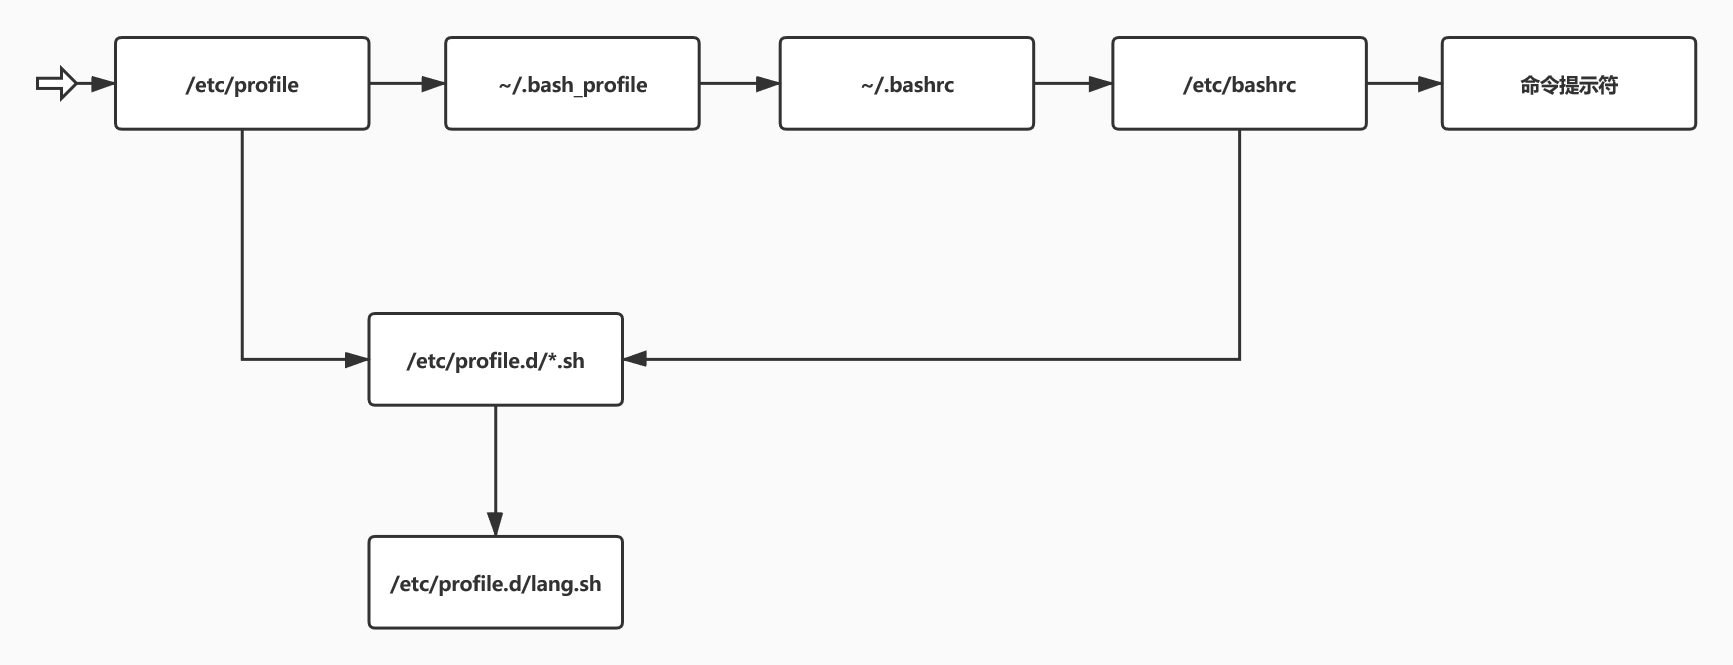
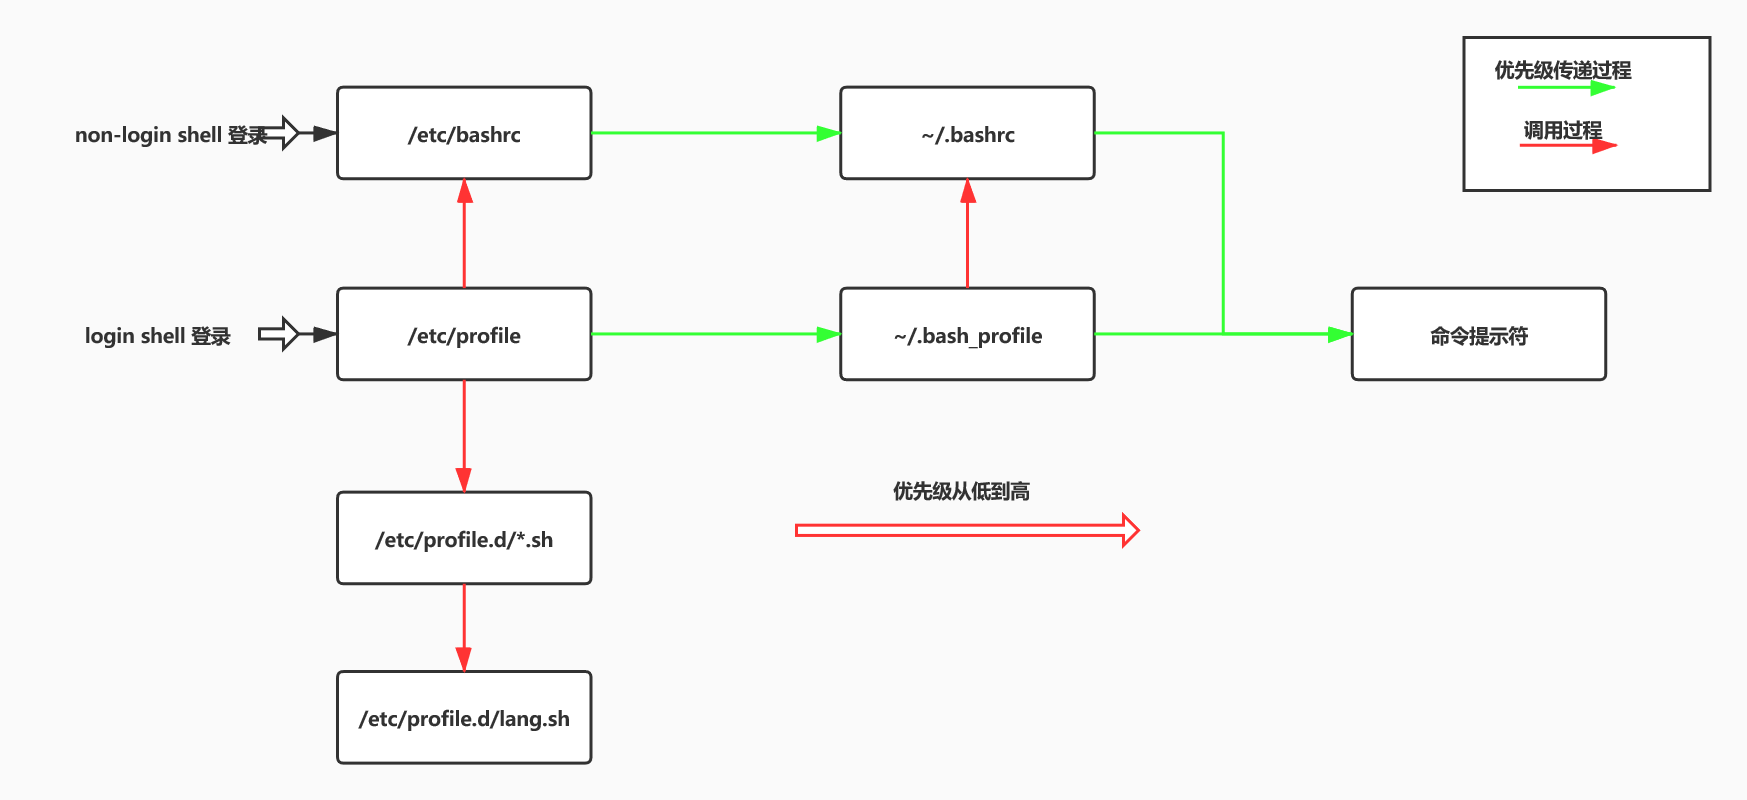
dev_branch 20/2/14(second time) add content linux and modified one picture

diff --git a/Linux_notes.md b/Linux_notes.md
@@ -5988,7 +5988,7 @@ ss@localcomputer:~$ email="ShenDeZ@163.com"
 
 #### 环境变量得配置文件简介
 
-##### `source` 命令及
+##### `source` 命令
 
 1. 命令 `source 配置文件` 或 `. 配置文件`
    - 修改配置文件系统必须重新登录，此命令解决系统重启
@@ -5997,16 +5997,65 @@ ss@localcomputer:~$ email="ShenDeZ@163.com"
    - 环境变量配置文件中主要是定义对系统得操作环境生效得系统默认环境变量，比如 PATH（定义系统查找命令得路径）、HISTSIZE（历史命令的显示命令条数）、PS1（提示符）、HOSTNAME（主机名） 等等默认环境变量。
    - __centOS__ （Linux也一样）的环境变量配置文件体系是一个层级体系。这与其他用户应用系统配置文件类似，有全局、有局部（用户），另外不同层级有时类似继承关系。
 
+##### 5 类环境配置文件及启动过程
+
+1. 5 类配置文件__（在 `/etc/` 下的配置文件对所有用户都生效，在某个用户家目录下的配置文件对这个用户有效）__
+
+   - __`/etc/profile`__
+     1. 第一次系统启动后第一个用户登录时执行 `/etc/profile` 文件，该文件是 Shell 默认主启动文件。
+     2. bash 执行该文件时，会读取 `/etc/profile.d/` 下所有 `*.sh` 文件，通过 `.` 或者 `source` 来加载变量
+     3. bash 执行该文件时，会调用 `/etc/bashrc`（Ubuntu 下为 `/etc/bash.bashrc`） 文件来执行
+     4. `/etc/profile` 、`/etc/bash.bashrc` 和 `/etc/profile.d/*.sh` 都是全局环境变量，对所有用户有效
+     5. __`/etc/environment` 保存环境变量 PATH 的值。据说 `/etc/profile` 保存所有用户的环境变量，`/etc/environment` 保存系统的环境变量__
+
+   - `/etc/profile.d/*.sh`（为一组配置文件）
+
+     1. 全局环境变量，对所有用户有效。
+     2. 通过 `/etc/profile` 调用
+
+   - __`/etc/bashrc`（Ubuntu `/etc/` 下的文件是 `bash.bashrc`）__
+
+     - 全局环境变量，对所有用户有效
+- 通过 `/etc/profile` 调用
+     
+   - __`~/.bash_profile` (Ubuntu 用户家目录下的文件是 `.profile`)__
+  1. 家目录下的启动文件都是用户专属启动文件，定义了该用户的环境变量
+     2. bash 执行该文件，会调用 `/etc/.bashrc`
+     3. bash 会按照下列顺序，执行第一个找到的文件，余下被忽略
+        - `~/.bash_profile`
+        - `~/.bash_login`
+        - `~/.profile`
+        - 仅对此用户有效
+   
+   - __`~.bashrc`__
+
+     - 仅对此用户有效
+- 通过 `~/.profile` 调用
+   
+2. 5 类配置文件的优先级（在 Ubuntu 系统下；每一个 Linux 的发行版本都不样）
+
+   __说明：数字越大，优先级越低__
+
+   - `/etc/profile` 的优先级为 5
+   - `/etc/profile.d` 为 `/etc/profile` 调用，并继承上述配置文件，优先级为 4
+   - /etc/bash.bashrc` 为 `/etc/profile` 调用，并继承上述配置文件，优先级为 3
+   - `~/.profile` 的优先级为 2
+   - `~/.bashrc` 为 `~/.profile` 调用，并继承上述配置文件，优先级为 1
+   - 修改环境配置在以上 5 个文件都可以，只是优先级高的会覆盖掉优先级低的。
+
 ##### Shell bash 不同类别介绍
 
 1. Shell bash 不同类别介绍
+
    - 分为 login shell（登录式 shell）、non-login shell（非登录式 shell）；interactive shell（交互 shell）和 non-interactive shell（非交互式 shell）。__这两种分类相互交叉。__
      1. 交互式，登录 shell
      2. 非交互式，登录 shell
      3. 交互式，非登录 shell
      4. 非交互式，非登录 shell
    - __注意：只要记住什么是 login shell、non-login shell 和 non-interactive 非登录式 shell__
+
 2. 介绍 3 种
+
    - 什么是 login shell
      1. 使用 bash 时需要完整的登录流程。就是说通过输入账号和密码登录系统，此时取得的 shell 称为 login shell。例如 `ssh` 登录或者 `su - root` 切换 root 用户都会启动 login shell
      2. 在 shell bash下使用 `--login` 选项调用 bash（前一个 shell bash 的子进程 `bash --login`），可以获得一个交互式 login shell。
@@ -6019,82 +6068,97 @@ ss@localcomputer:~$ email="ShenDeZ@163.com"
    - 什么是非交互，非登录式 shell
      - 执行脚本
 
-2. 不同 shell bash 的启动过程
+3. 不同 shell bash 的启动过程
 
-- login shell（登录式 Shell）
-  1. 使用 bash 时需要完整的登录流程。就是说通过输入账号和密码登录系统，此时取得的shell称为login shell。例如 `ssh` 登录或者 `su - root` 切换 root 用户都会启动 `login shell`
-- non-login shell（非登录式 Shell）
-  1. 非登录 Shell 不会执行任何 `profile` 文件
-  2. 交互式 Shell，等待用户输入命令
-  3. 非交互式 Shell，只运行家脚本，且不执行任何 `bashrc` 文件
+   - __不同的 shell bash 启动时会读取不同的配置文件，从而导致环境变量不一样。__
+     1. 实际上，在 Ubuntu 系统中 `/etc/profile` 配置文件会调用 `/etc/profile.d/*.sh` 和 `/etc/bash.bashrc` 配置文件；`~/.profile` 配置文件会调用 `.bashrc` 配置文件。
+     2. 在 `/etc` 下的环境配置文件，如同全局变量；在 `~/.` 下的配置文件，如同局部变量，__局部变量优先级大于全局变量__。
 
-##### 5 类配置文件及启动过程
+   - login shell 
+     1. shell bash 启动时首先读取 `/etc/profile` 全局配置，然后查找（`~/.bash_profile` 、`~/.bash_login`、`~/.profile`）3 个文件任何一个配置文件（找到一个即可），login shell 退出时读取 `~/.bash_logout`。
 
-1. 5 类配置文件__（在 `/etc/` 下的配置文件对所有用户都生效，在某个用户家目录下的配置文件对这个用户有效）__
+   - non-login shell
+     1. non-login shell 启动时读取 `~/.bashrc` 配置文件
+     2. 不会读取任何 `profile` 文件
+   - 非交互，non-login shell
+     1. 非交互式，non-login shell 不会读取 上述 5 类配置文件，而是查找环境变量 BASH_ENV。
 
-   - __`/etc/profile`__
-     1. 系统启动后第一个用户登录时执行 `/etc/profile` 文件，该文件是 Shell 默认主启动文件。
-     2. bash 执行该文件时，会读取 `/etc/profile.d/` 下所有 `*.sh` 文件，通过 `.` 或者 `source` 来加载变量
-     3. bash 执行该文件是，会调用 `/etc/bashrc`（Ubuntu 下为 `/etc/bash.bashrc`） 文件来执行
-     4. `/etc/profile` 、`/etc/bash.bashrc` 和 `/etc/profile.d/*.sh` 都是全局环境变量，对所有用户有效
-     5. __`/etc/environment` 保存环境变量 PATH 的值。据说 `/etc/profile` 保存所有用户的环境变量，`/etc/environment` 保存系统的环境变量__
+4. 测试使用何种 shell
 
-   - `/etc/profile.d/*.sh`（为一组配置文件）
+   __说明：只区分 3 种 shell（login shell、non-login shell、非交互 non-login shell）；我是用的是图形化 Ubuntu 系统（init 5）；前一个 shell 是哪种类型与后一个 shell 是哪种类型无关，至于注入的命令有关。__
 
-     1. 全局环境变量，对所有用户有效。
-     2. 通过 `/etc/profile` 调用
+   - 登录图像化 Ubunut 系统后，开启终端是 non-login shell
 
-   - __`/etc/bashrc`（Ubuntu `/etc/` 下的文件是 `bash.bashrc`）__
+   - 输入 `bash` 命令之后也是 non-login shell
 
-     - 设置全局交互式 bash shell
+   - 输入 `bash --login` 命令之后是 login shell
 
-     - 全局环境变量，对所有用户有效
-     - 通过 `/etc/profile` 调用
+   - 输入 `su - root` 命令之后是 login shell
 
-   - __`~/.bash_profile` (Ubuntu 用户家目录下的文件是 `.profile`)__
-     1. 家目录下的启动文件都是用户专属启动文件，定义了该用户的环境变量
-     2. bash 执行该文件，会调用 `/etc/.bashrc`
-     3. bash 会按照下列顺序，执行第一个找到的文件，余下被忽略
-        - `~/.bash_profile`
-        - `~/.bash_login`
-        - `~/.profile`
-        - 仅对此用户有效
+   - 输入 `su root` 命令之后是 non-login shell
 
-   - __`~.bashrc`__
+   - __可以在 `/etc/profile` 中设置环境变量，理由 login 与 non-login 的区别在此__
 
-     - 设置此用户的交互式 bash shell
+     1. 添加环境变量在 `/etc/profile` 文件中 `spro="login shell"`
 
-     - 仅对此用户有效
-     - 通过 `~/.profile` 调用
+     2. 验证是否为 login 和 non-login
 
-2. Shell 的不同，bash 如何执行启动文件
+        ```shell
+        ss@localcomputer:~$ echo $spro		# 开启 non-login shell
+        
+        ss@localcomputer:~$ su - root		# 开启 login shell
+        密码： 
+        root@localcomputer:~# echo $spro
+        login shell
+        root@localcomputer:~# bash
+        ```
 
-   - 下列描述了 bash 如何执行它的启动文件。如果这些启动文件中的任一个 __存在但是不可读取__， bash 将报告一个错误。
+#### 环境变量配置文件作用（此处记录不清楚）
 
-   - login shell（登录 shell）或指定 `--login` 选项的 shell 的非交互式
-     1. 它首先读取并执行 `/etc/profile` 中的命令，只要那个文件存在。此文件调用 `/etc/bashrc`（Ubuntu 下位 `/etc/bash.bashrc`）和 `/etc/profile.d/*.sh`
-     2. 读取那个文件之后，它以如下的顺序查找 `~/.bash_profile`, `~/.bash_login` , 和 `~/.profile` , 从存在并且可读的第一个文件中读取并执行其中的命令。此文件调用 `~/.bashrc` 文件
-     3. 当一个登录 shell 退出时， bash 读取并执行文件 `~/.bash_logout` 中的命令，只要它存在。
-   - interactive shell（交互式 shell，但不是登录式 shell）
-     1. bash 从文件 `~/.bashrc` 中读取并执行命令，只要它存在。
-   - 当 bash 以非交互的方式启动时
-     1. 另有安排，与环境变量配置文件无关
+__说明：不同的发行版本不相同，从 `/etc/profile` 自己看就可以__
 
-#### 环境变量配置文件作用
-
-1. 环境变量配置文件区分优先级
+1. 环境变量配置文件区分优先级__（Ubuntu 系统下）__
 
    - `/etc/` 配置文件，对所有用户生效，但优先级低
 
    - `~` 用户家目录的配置文件，对用户本身生效，优先级高
 
-   - 配置文件优先级 __示意图__
+   - 配置文件优先级 
 
-     ![Linux的Shell变量配置优先级](git_picture/Linux的Shell变量配置优先级.jpg)
+     1. 示意图（是 Ubuntu 图像界面操作系统；centOS 与下图不同）
 
-   - 用户登录首先读取 `/etc/profile` 配置文件，再分成两个路线，分别调用 `~` 家目录下的配置文件 __和__ `/etc/profile.d` 目录的配置文件。这些环境变量配置文件不管哪个文件写的用户登录环境变量配置，都会再用户登录时生效。
+        ![Linux的Shell变量配置优先级](git_picture/Linux的Shell变量配置优先级.jpg)
+   
+     2. shell 的登录方式主要分为两种，两种的登录启动的环境配置文件不同，造成了环境变量的不一样。实际在 Ubuntu 中 `profile` 配置文件都是调用 `bashrc` 配置文件。`bashrc` 的优先级高于 `profile` 。
+   
+   - 在 centOS 的系统中各个环境配置文件对环境变量的定义（Ubuntu 中变量作用相同，但定义的文件有所变化）
+   
+     1. `/etc/profile` 的作用
+        - 定义了哪些环境变量
+          1. USER
+          2. LOGNAME
+          3. MAIL
+          4. PATH
+          5. HOSTNAME
+          6. HISTSIZE
+          7. umask
+          8. 调用 `/etc/profile.d/*.sh`
+     2. `~/.bash_profile` 的作用
+        - 调用了 `~/.bashrc` 文件
 
 #### 其他配置文件和登录信息
+
+1. 注销时生效的环境配置变量文件 `~/.bash_logout`
+   - 有则使用，没有也没有问题，但又不能读取则报错
+   - 只有 login shell 登录 shell bash 退出登录时生效
+   - 可以在 `~/.bash_logout` 编写 
+     1. 清空历史命令
+     2. 清空环境变量等等
+2. 历史命令存放文件 `~/.bash_history`
+   - 本次登录不如写入，只会写入内存中，当注销登录时才会写入文件
+   - 不赞成清空（mysql 设置密码时，明文保存）
+3. Shell 登录信息
+   - 本地终端欢迎登录信息 `/etc/issue`
 
 
 
